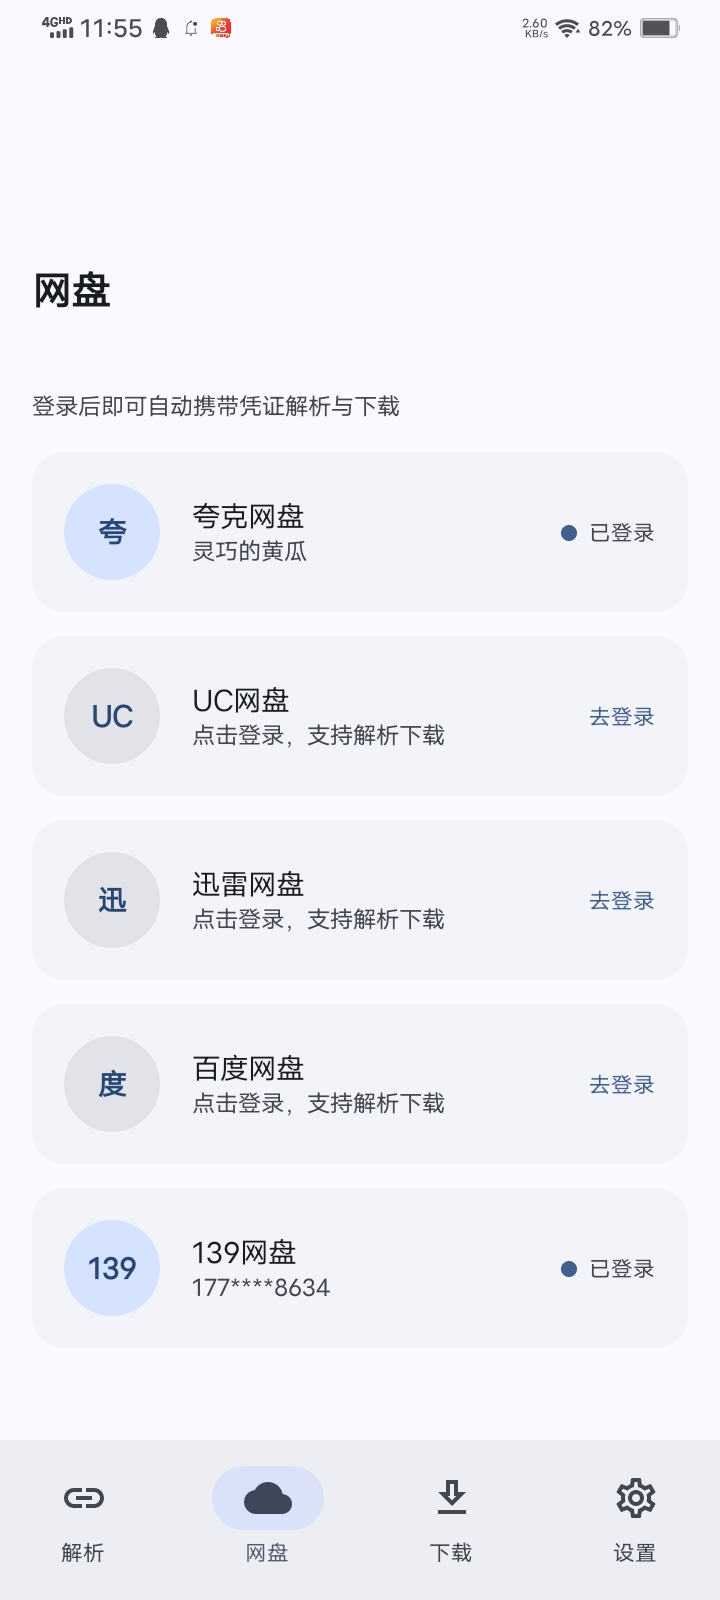
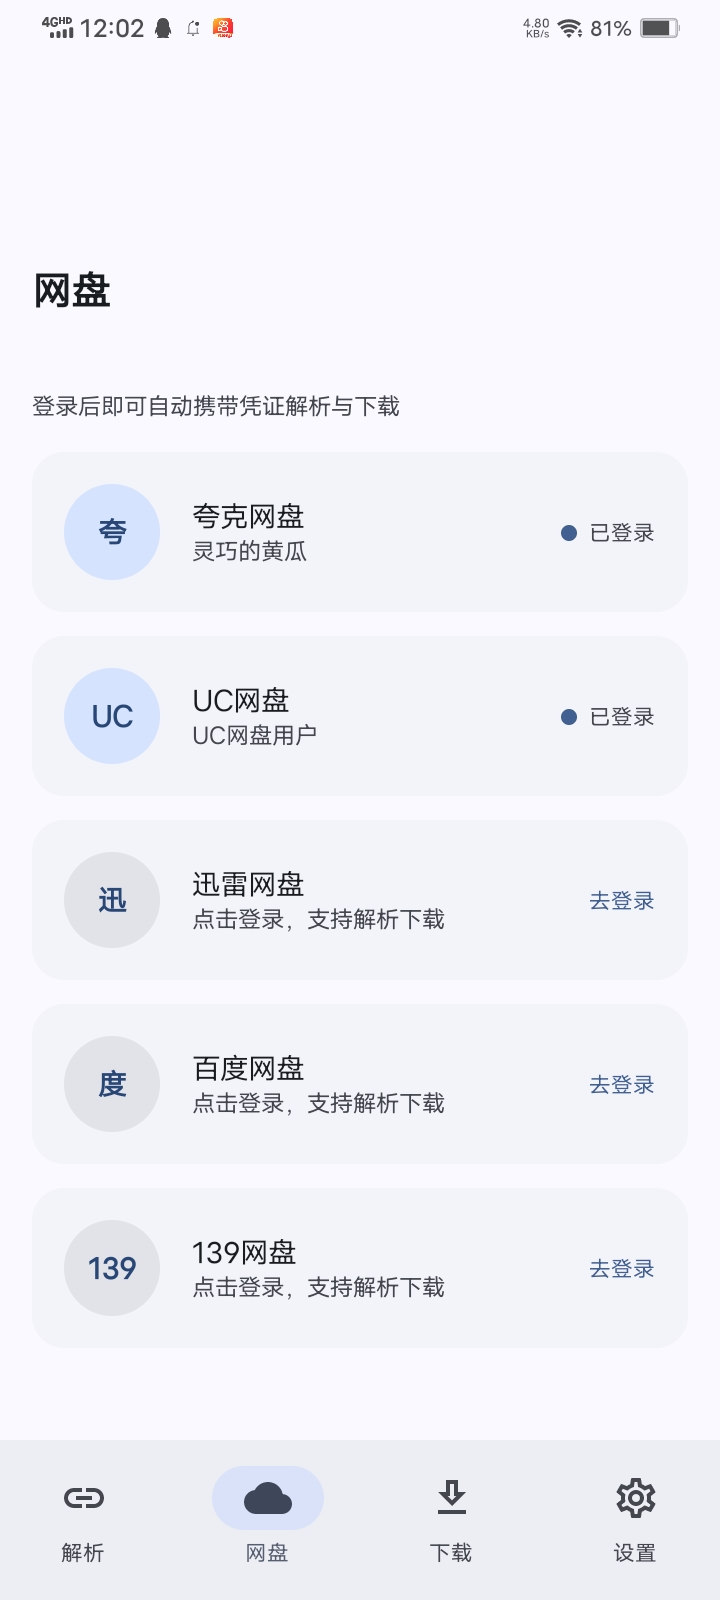
修改README

diff --git a/README.md b/README.md
@@ -9,6 +9,7 @@
 - 迅雷网盘
 - 百度网盘
 - 139 网盘（和彩云）
+- ~~其他网盘懒得写了，如有需要请打开一个issue~~
 
 ## 功能
 
@@ -18,6 +19,16 @@
 - **WebView 登录**：直接在应用内打开网盘登录页，登录后自动提取 Cookie，不用自己实现登录协议
 - **认证备份**：把已登录的网盘认证信息导出为 JSON 文件，换设备可直接导入恢复
 - **剪贴板识别**：复制分享链接后回到应用，提示一键粘贴解析
+
+## 截图
+
+| 解析直链 | 分享解析 | 下载管理 |
+|:---:|:---:|:---:|
+| ![解析输入](images/Link.jpg) | ![文件列表](images/Parsing.jpg) | ![下载管理](images/Download.jpg) |
+
+| 网盘登录 | 设置 | 关于 |
+|:---:|:---:|:---:|
+| ![网盘登录](images/Login.jpg) | ![设置](images/Setting.jpg) | ![关于](images/about.jpg) |
 
 ## 使用
 
